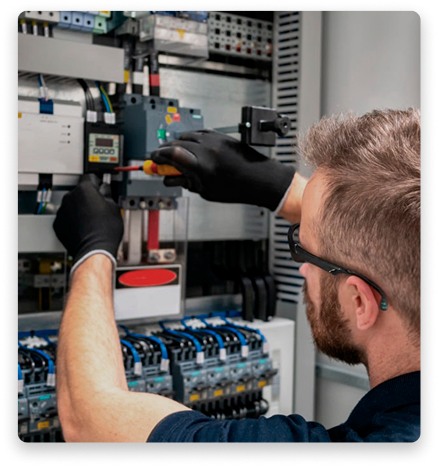
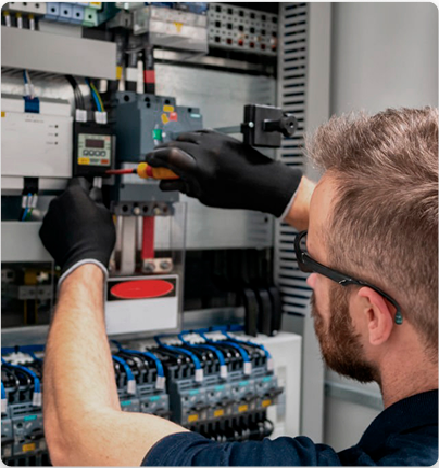
added new changes

diff --git a/src/features/partners/PartnerPages/PartnerProfileShortcut.tsx b/src/features/partners/PartnerPages/PartnerProfileShortcut.tsx
@@ -9,6 +9,7 @@ import factsImg from "/src/assets/userImages/faktaLogo.svg";
 import kabelLogoImg from "/src/assets/userImages/kabelLogoImg.png";
 import startImg from "/src/assets/userImages/star.png";
 import { useTranslation } from "react-i18next";
+import circlePartner from "/src/assets/userImages/circlePartner.svg";
 import ScrollToTop from "../../../components/common/ScrollToTop";
 
 function PartnerProfileShortcut({
@@ -36,6 +37,29 @@ function PartnerProfileShortcut({
     } catch {
       return null;
     }
+  };
+
+  // Update the getReferences function to handle HTML
+  const renderReferencesContent = () => {
+    if (!partnerData?.textField4) {
+      return (
+        <div className="text-white text-center py-4">
+          <p>Ingen referencer tilgængelige</p>
+        </div>
+      );
+    }
+
+    // Create a safe HTML object
+    const createMarkup = () => {
+      return { __html: partnerData.textField4 };
+    };
+
+    return (
+      <div
+        className="references-html-content text-white w-full text-left"
+        dangerouslySetInnerHTML={createMarkup()}
+      />
+    );
   };
 
   // Updated getServices to preserve HTML formatting
@@ -66,14 +90,6 @@ function PartnerProfileShortcut({
         dangerouslySetInnerHTML={createMarkup()}
       />
     );
-  };
-
-  const getReferences = () => {
-    if (!partnerData?.textField4) return [];
-    return partnerData.textField4
-      .split("\n")
-      .map((s: string) => s.trim())
-      .filter((s: string) => s.length > 0);
   };
 
   const renderRating = (
@@ -217,8 +233,7 @@ function PartnerProfileShortcut({
                   style={{
                     width: "300px",
                     height: "300px",
-                    backgroundImage:
-                      "url('/src/assets/userImages/circlePartner.svg')",
+                    backgroundImage: `url(${circlePartner})`,
                     backgroundSize: "contain",
                     backgroundRepeat: "no-repeat",
                     backgroundPosition: "center",
@@ -276,16 +291,8 @@ function PartnerProfileShortcut({
                     Referencer
                   </h3>
                 </div>
-                <div className="text-white">
-                  {getReferences().length > 0 ? (
-                    getReferences().map((ref: string, idx: number) => (
-                      <p key={idx} className="mb-1">
-                        {ref}
-                      </p>
-                    ))
-                  ) : (
-                    <p>{partnerData?.textField4}</p>
-                  )}
+                <div className="text-white references-container">
+                  {renderReferencesContent()}
                 </div>
               </div>
             </div>
@@ -337,7 +344,7 @@ function PartnerProfileShortcut({
                 </div>
               </div>
 
-              <div className="rounded-[10px] flex justify-center items-center overflow-hidden md:w-[403px] w-full md:h-[432px] h-auto">
+              <div className="md:w-[403px] w-full md:h-[432px] h-auto rounded-[10px] overflow-hidden">
                 <img
                   src={
                     partnerData?.imageUrl3 ||

diff --git a/src/features/admin/partners/PartnersPage.tsx b/src/features/admin/partners/PartnersPage.tsx
@@ -2016,7 +2016,7 @@ export default function PartnersPage() {
                 "https://www.trustpilot.com/review/your-business"
               }
             />
-             <ToggleSwitch
+            <ToggleSwitch
               label={t("common.active") || "Active"}
               checked={isActiveValue}
               onChange={(checked) => setValue("isActive", checked)}
@@ -2109,11 +2109,16 @@ export default function PartnersPage() {
                   height="min-h-[120px] sm:min-h-[150px]"
                 />
               </div>
-              <Input
-                label={t("admin.partners.TextField4") || "Text Fields 4"}
-                error={errors.textField4?.message}
-                {...register("textField4")}
-              />
+              <div>
+                <RichTextEditor
+                  label={t("admin.partners.TextField4") || "Text Fields 4"}
+                  value={watch("textField4") || ""}
+                  onChange={(value) => setValue("textField4", value)}
+                  error={errors.textField4?.message}
+                  placeholder="Enter formatted text for Text Field 4..."
+                  height="min-h-[120px] sm:min-h-[150px]"
+                />
+              </div>
               <Input
                 label={t("admin.partners.TextField5") || "Text Fields 5"}
                 error={errors.textField5?.message}
@@ -2160,6 +2165,8 @@ export default function PartnersPage() {
                 onPreview={handleImagePreview}
                 folder="partners/images"
                 error={errors.imageUrl3?.message}
+                exactDimensions={{ width: 439, height: 468 }}
+                showDimensionValidation={true}
               />
               <ImageUpload
                 label={t("admin.partners.ImageUpload4") || "Image Upload 4"}

diff --git a/src/pages/UserSupplier.tsx b/src/pages/UserSupplier.tsx
@@ -323,7 +323,7 @@ const UserSupplier = () => {
       </section>
 
       {/* Desktop: keep existing layout and styling unchanged */}
-      <section className="absolute bottom-0 left-1/2 transform -translate-x-1/2 -translate-y-1/2 px-8 hidden md:flex md:flex-nowrap items-center justify-center gap-4 w-full p-2">
+      <section className="absolute -bottom-16 left-1/2 transform -translate-x-1/2 -translate-y-1/2 px-8 hidden md:flex md:flex-nowrap items-center justify-center gap-4 w-full p-2">
         {loading ? (
           <div className="text-white">
             {t("userSupplier.loadingSubcategories")}
@@ -364,7 +364,7 @@ const UserSupplier = () => {
         )}
       </section>
 
-      <section className="bg-[#01351f] w-full flex justify-center py-12">
+      <section className="bg-[#01351f] w-full flex justify-center py-30">
         <div className="grid grid-cols-1 md:grid-cols-2 lg:grid-cols-3 gap-4 max-w-7xl px-12 w-full">
           {partnersLoading ? (
             <div className="col-span-3 flex justify-center items-center h-64">

diff --git a/src/features/auth/LoginPage.tsx b/src/features/auth/LoginPage.tsx
@@ -63,7 +63,7 @@ export default function LoginPage() {
   if (token && user && user.roleName.toLowerCase() === "admin") {
     return (
       <Navigate
-        to={(loc.state as any)?.from?.pathname ?? "/dashboard"}
+        to={(loc.state as any)?.from?.pathname ?? "/admin/dashboard"}
         replace
       />
     );
